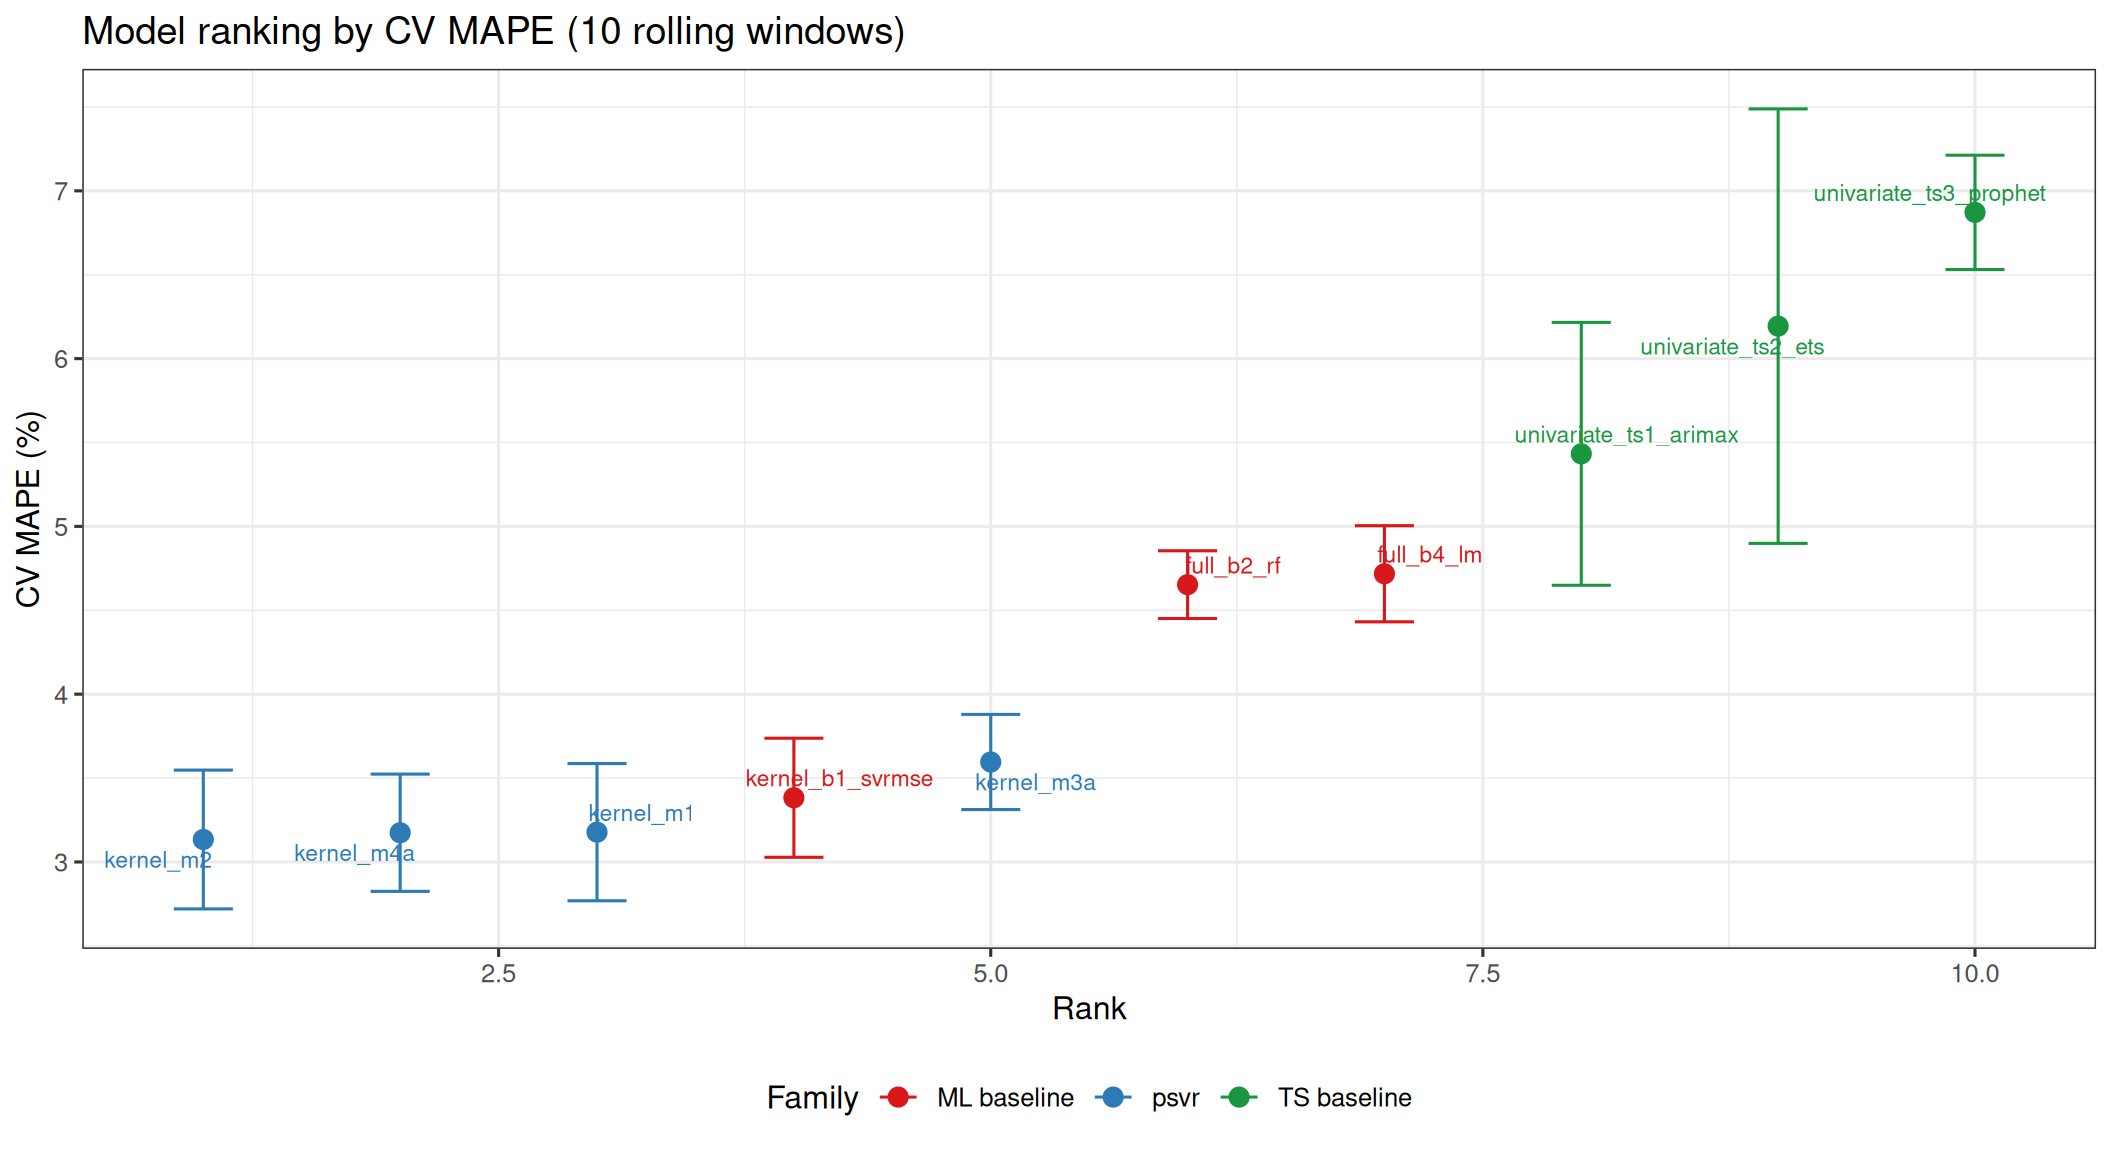
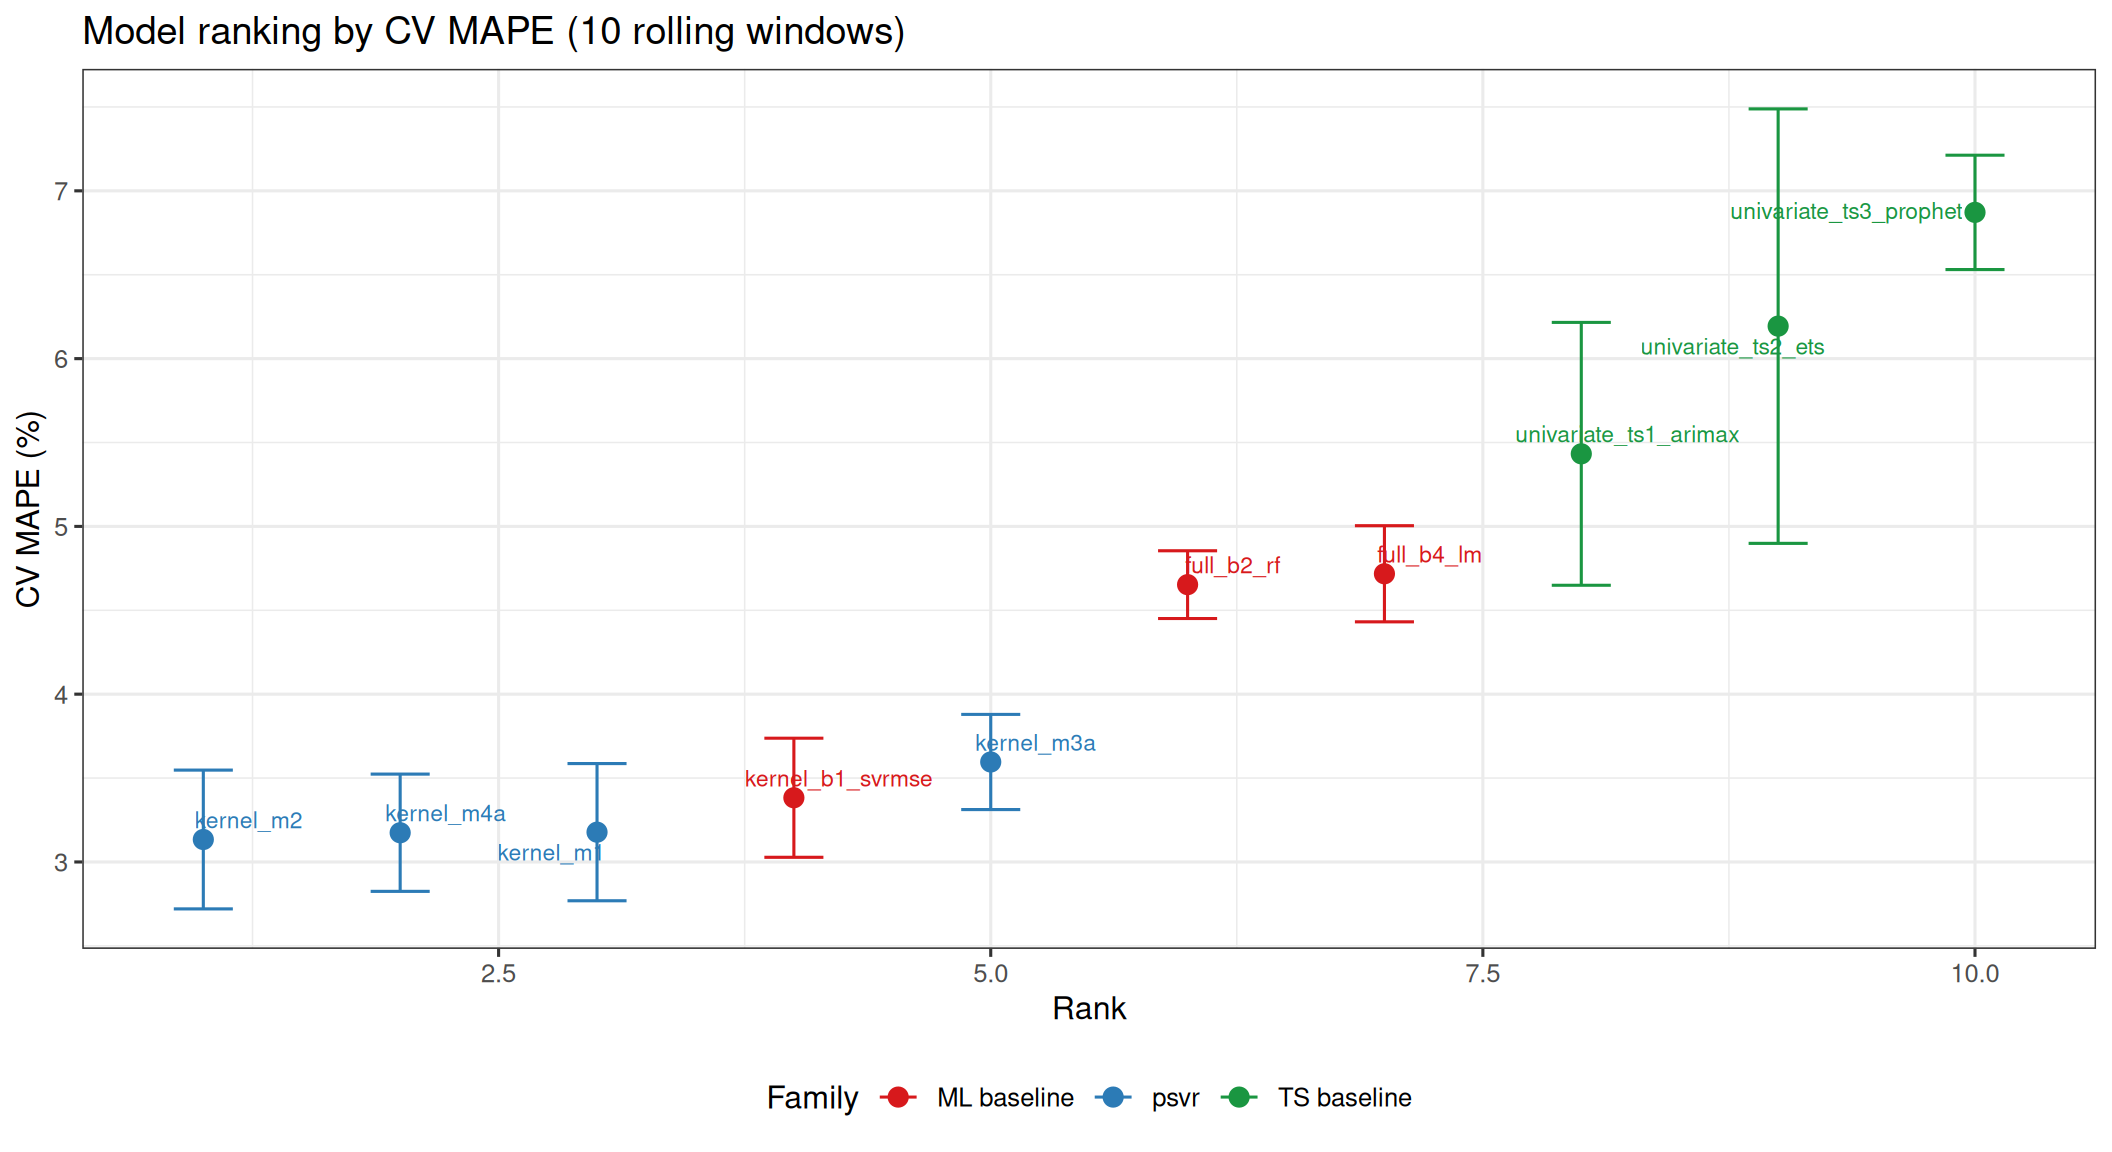
Deploying to gh-pages from @ pbenavidesh/psvr@82a3b569363e9d7824377d4cd1938787c9e772bb 🚀

diff --git a/articles/electricity-forecasting.html b/articles/electricity-forecasting.html
@@ -336,7 +336,7 @@
 <code class="sourceCode R"><span><span class="fu"><a href="https://rdrr.io/r/base/cat.html" class="external-link">cat</a></span><span class="op">(</span><span class="st">"Custom rbf_sigma range (log10): ["</span>,</span>
 <span>    <span class="fu"><a href="https://rdrr.io/r/base/Round.html" class="external-link">round</a></span><span class="op">(</span><span class="va">r</span><span class="op">$</span><span class="va">lower</span>, <span class="fl">4</span><span class="op">)</span>, <span class="st">","</span>, <span class="fu"><a href="https://rdrr.io/r/base/Round.html" class="external-link">round</a></span><span class="op">(</span><span class="va">r</span><span class="op">$</span><span class="va">upper</span>, <span class="fl">4</span><span class="op">)</span>, <span class="st">"]\n"</span><span class="op">)</span></span></code></pre></div>
 </details><div class="cell-output cell-output-stdout">
-<pre><code>Custom rbf_sigma range (log10): [ -0.5182 , 1.4818 ]</code></pre>
+<pre><code>Custom rbf_sigma range (log10): [ -0.5261 , 1.4739 ]</code></pre>
 </div>
 </div>
 </section><section class="level2"><h2 id="model-specifications">7 Model specifications<a class="anchor" aria-label="anchor" href="#model-specifications"></a>
@@ -1488,12 +1488,12 @@
 <tr class="odd">
 <td style="text-align: left;">Random Forest</td>
 <td style="text-align: left;">ML baseline</td>
-<td style="text-align: right;">4.0775</td>
-<td style="text-align: right;">5.7196</td>
-<td style="text-align: right;">2.5877</td>
-<td style="text-align: right;">0.6463</td>
-<td style="text-align: right;">184.3066</td>
-<td style="text-align: right;">0.7396</td>
+<td style="text-align: right;">3.9871</td>
+<td style="text-align: right;">5.5765</td>
+<td style="text-align: right;">2.5308</td>
+<td style="text-align: right;">0.6332</td>
+<td style="text-align: right;">176.3695</td>
+<td style="text-align: right;">0.7508</td>
 </tr>
 <tr class="even">
 <td style="text-align: left;">Prophet + regressors</td>
@@ -1619,7 +1619,7 @@
 </tr>
 <tr class="odd">
 <td style="text-align: left;">Random Forest</td>
-<td style="text-align: right;">0.6463</td>
+<td style="text-align: right;">0.6332</td>
 </tr>
 <tr class="even">
 <td style="text-align: left;">Prophet + regressors</td>

diff --git a/articles/electricity-forecasting.md b/articles/electricity-forecasting.md
@@ -331,7 +331,7 @@ cat("Custom rbf_sigma range (log10): [",
     round(r$lower, 4), ",", round(r$upper, 4), "]\n")
 ```
 
-    Custom rbf_sigma range (log10): [ -0.5182 , 1.4818 ]
+    Custom rbf_sigma range (log10): [ -0.5261 , 1.4739 ]
 
 ## 7 Model specifications
 
@@ -1314,7 +1314,7 @@ test_metrics |>
 | LS-RMSPE + Sym. Kernel (MAPE opt.)  | psvr        |   3.3288 |    4.6127 |    2.1148 | 0.5170 |  102.5260 |  0.8551 |
 | LS-RMSPE + Sym. Kernel (RMSPE opt.) | psvr        |   3.3374 |    4.6257 |    2.1202 | 0.5181 |  102.9201 |  0.8546 |
 | SVR-MAPE + Sym. Kernel              | psvr        |   3.4397 |    4.8530 |    2.1845 | 0.5314 |  110.2314 |  0.8442 |
-| Random Forest                       | ML baseline |   4.0775 |    5.7196 |    2.5877 | 0.6463 |  184.3066 |  0.7396 |
+| Random Forest                       | ML baseline |   3.9871 |    5.5765 |    2.5308 | 0.6332 |  176.3695 |  0.7508 |
 | Prophet + regressors                | TS baseline |   5.6504 |    7.8017 |    3.5765 | 0.9170 |  381.0123 |  0.4616 |
 | ARIMAX                              | TS baseline |  10.3658 |   12.4324 |    6.5397 | 1.7158 |  950.6899 | -0.3434 |
 | ETS                                 | TS baseline |  18.6074 |   19.9015 |   11.6548 | 3.0306 | 2282.3701 | -2.2252 |
@@ -1388,7 +1388,7 @@ mase_results |>
 | LS-RMSPE + Sym. Kernel (MAPE opt.)  |       0.5170 |
 | LS-RMSPE + Sym. Kernel (RMSPE opt.) |       0.5181 |
 | SVR-MAPE + Sym. Kernel              |       0.5314 |
-| Random Forest                       |       0.6463 |
+| Random Forest                       |       0.6332 |
 | Prophet + regressors                |       0.9170 |
 | ARIMAX                              |       1.7158 |
 | ETS                                 |       3.0306 |